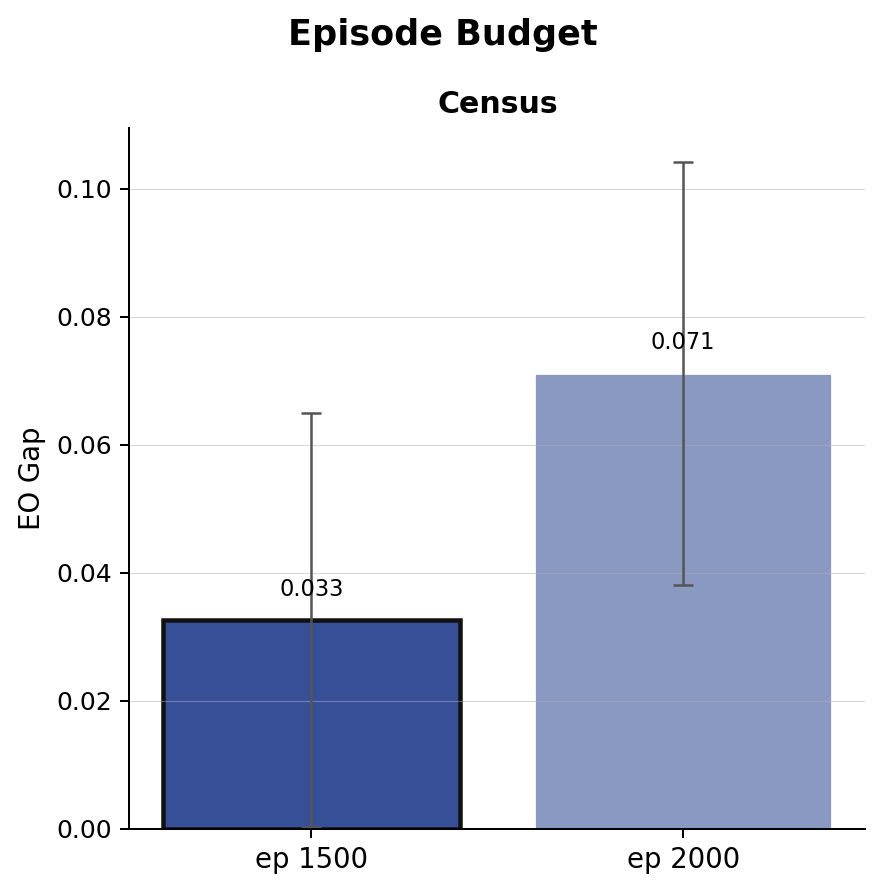
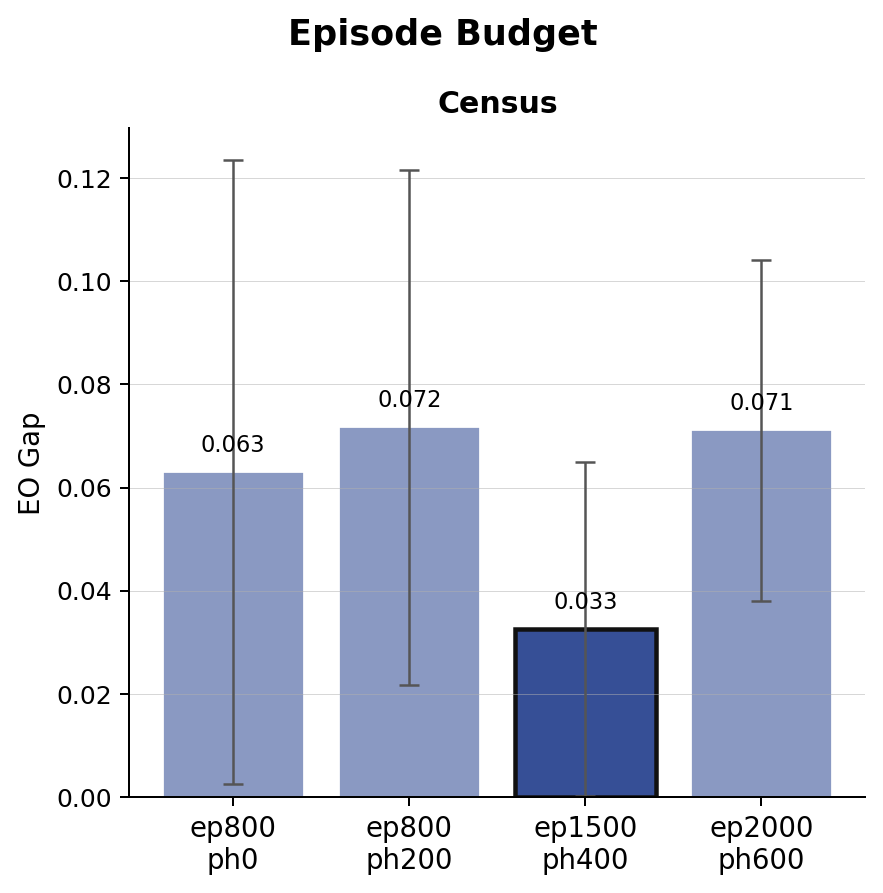
Episode ablation census figure: show all 4 episode configs

diff --git a/paper_figures_v3/generate_ablation_figures_v2.py b/paper_figures_v3/generate_ablation_figures_v2.py
@@ -273,12 +273,10 @@ _make_ep_eo_fig(DATASETS_2, 2, (9, 5),
                 "fig_episode_ablation_eo_nodataset.png",
                 show_compas_placeholder=False)
 
-# 1-dataset (census only, ep1500 and ep2000 only)
+# 1-dataset (census only, all 4 episode configs)
 _make_ep_eo_fig(DATASETS_1, 1, (5, 5),
                 "fig_episode_ablation_census.png",
-                show_compas_placeholder=False,
-                ep_keys_override=EP_KEYS_2BAR,
-                ep_chosen_override=EP_CHOSEN_2BAR)
+                show_compas_placeholder=False)
 
 
 # ─────────────────────────────────────────────────────────────────────────────
